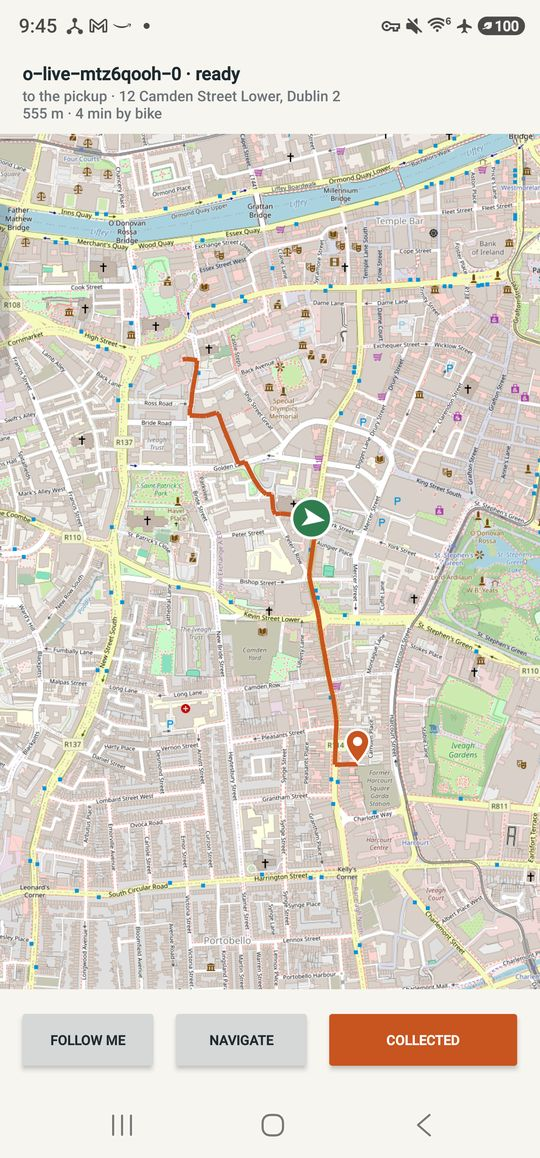
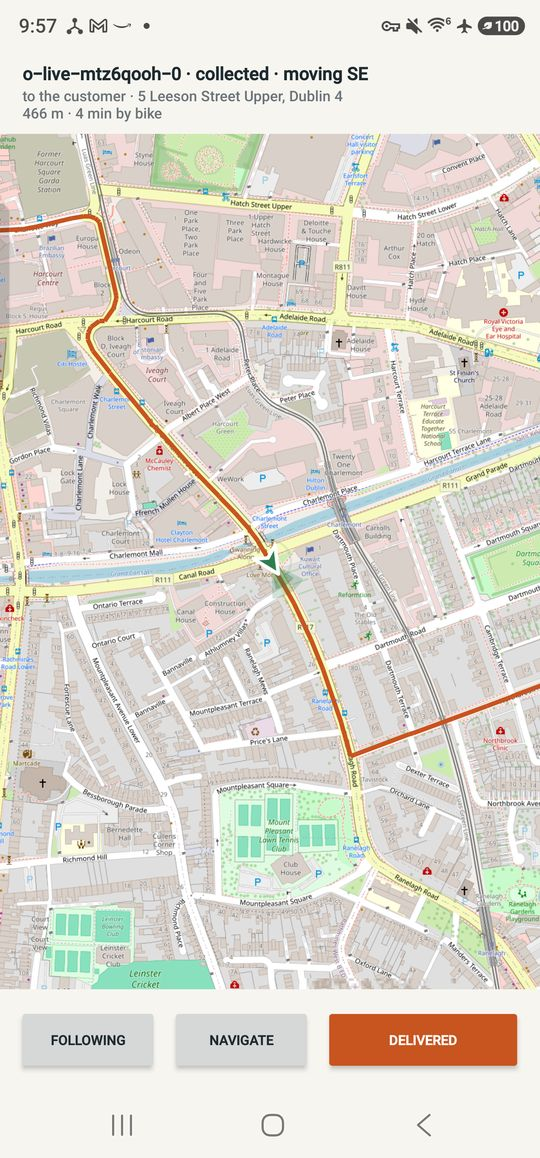
The courier is a chevron with a facing cone, and it pulses while moving
The disc-with-an-arrowhead blurred into the destination teardrop whenever
the courier arrived on top of one. A chevron with the cone of where they are
facing is the shape a person already reads as "me, going that way", and it
stays legible against a teardrop. The anchor sits on the chevron rather than
the image centre, so the cone projects ahead of the courier instead of
dragging the courier forward by half a cone.

A ring expands from under the chevron while the courier is actually moving,
driven by whether the position changed, not by a timer: a courier waiting at
a door or a phone that has gone quiet sits still, and the title says stopped
rather than moving SE. The animation says something true or it does not run.

Claude-Session: https://claude.ai/code/session_01JTEEzAK5s1sBBuDzpcijis

diff --git a/app/src/main/java/ie/unidatum/courier/MapActivity.kt b/app/src/main/java/ie/unidatum/courier/MapActivity.kt
@@ -1,6 +1,8 @@
 package ie.unidatum.courier
 
+import android.graphics.Canvas
 import android.graphics.Color
+import android.graphics.Paint
 import android.os.Bundle
 import android.os.Handler
 import android.os.Looper
@@ -14,6 +16,8 @@ import org.osmdroid.tileprovider.tilesource.TileSourceFactory
 import org.osmdroid.util.BoundingBox
 import org.osmdroid.util.GeoPoint
 import org.osmdroid.views.MapView
+import org.osmdroid.views.Projection
+import org.osmdroid.views.overlay.Overlay
 import org.osmdroid.views.overlay.Marker
 import org.osmdroid.views.overlay.Polyline
 import java.util.concurrent.Executors
@@ -26,6 +30,8 @@ import java.util.concurrent.Executors
  * renderer, not another source of truth. Collect and deliver are here too, so
  * the courier never has to go back to the list.
  */
+private const val PERIOD = 1500L
+
 class MapActivity : AppCompatActivity() {
     private lateinit var map: MapView
     private lateinit var courier: Courier
@@ -52,6 +58,7 @@ class MapActivity : AppCompatActivity() {
         map.setMultiTouchControls(true)
         map.controller.setZoom(15.0)
         map.controller.setCenter(GeoPoint(courier.lat, courier.lon))
+        map.overlays.add(Pulse())   // under the markers: they are added later
         map.setOnTouchListener { _, _ -> follow = false; findViewById<Button>(R.id.recentre).text = "Follow me"; false }
         findViewById<Button>(R.id.recentre).setOnClickListener {
             follow = true; (it as Button).text = "Following"; map.controller.animateTo(GeoPoint(courier.lat, courier.lon))
@@ -68,7 +75,14 @@ class MapActivity : AppCompatActivity() {
         val o = order()
         val here = GeoPoint(courier.lat, courier.lon)
         if (me == null) {
-            me = Marker(map).apply { title = courier.id; setAnchor(Marker.ANCHOR_CENTER, Marker.ANCHOR_CENTER); icon = getDrawable(R.drawable.pin_me) }
+            me = Marker(map).apply {
+                title = courier.id
+                // The chevron, not the image centre, sits on the courier: the cone above it is where they are
+                // looking, and anchoring on the middle of the whole icon would push the courier backwards by
+                // half a cone.
+                setAnchor(0.5f, 0.68f)
+                icon = getDrawable(R.drawable.pin_me)
+            }
             map.overlays.add(me)
         }
         me!!.position = here
@@ -95,7 +109,7 @@ class MapActivity : AppCompatActivity() {
             val status = o.optString("status")
             val d = courier.metresToTarget(o)
             val eta = courier.route?.let { if (it.seconds > 0) " · ${Math.round(it.seconds / 60)} min by bike" else "" } ?: ""
-            findViewById<TextView>(R.id.mapTitle).text = "${o.optString("_id")} · $status"
+            findViewById<TextView>(R.id.mapTitle).text = "${o.optString("_id")} · $status" + (if (courier.moving()) " · moving ${courier.compass()}" else " · stopped")
             findViewById<TextView>(R.id.mapWhere).text =
                 (if (status == "ready") "to the pickup · " + (o.optJSONObject("pickup")?.optString("address") ?: "")
                  else "to the customer · " + (o.optJSONObject("delivery")?.optString("address") ?: "")) +
@@ -145,7 +159,35 @@ class MapActivity : AppCompatActivity() {
         }
     }
 
-    override fun onResume() { super.onResume(); map.onResume() }
-    override fun onPause() { super.onPause(); map.onPause() }
+    /** The rings under the courier while they are actually moving — a signal a person reads without looking, the way
+     *  a blinking cursor says a terminal is alive. Nothing animates when the courier is standing still or their phone
+     *  has gone quiet, so the animation carries information rather than decorating the screen. */
+    private inner class Pulse : Overlay() {
+        private val paint = Paint(Paint.ANTI_ALIAS_FLAG).apply { style = Paint.Style.STROKE }
+        override fun draw(c: Canvas, proj: Projection) {
+            if (!courier.moving()) return
+            val p = proj.toPixels(GeoPoint(courier.lat, courier.lon), null)
+            val t = (System.currentTimeMillis() % PERIOD).toFloat() / PERIOD
+            for (k in 0..1) {
+                val phase = (t + k * 0.5f) % 1f
+                paint.color = Color.parseColor("#2F7D4F")
+                paint.alpha = ((1f - phase) * (1f - phase) * 130).toInt()
+                paint.strokeWidth = 2f + 7f * (1f - phase)
+                c.drawCircle(p.x.toFloat(), p.y.toFloat(), 22f + phase * 68f, paint)
+            }
+        }
+    }
+
+    private val beat = object : Runnable {
+        override fun run() {
+            if (!alive || !resumed) return
+            if (courier.moving()) map.invalidate()
+            ui.postDelayed(this, 40)
+        }
+    }
+
+    @Volatile private var resumed = false
+    override fun onResume() { super.onResume(); map.onResume(); resumed = true; ui.post(beat) }
+    override fun onPause() { super.onPause(); map.onPause(); resumed = false }
     override fun onDestroy() { alive = false; work.shutdownNow(); super.onDestroy() }
 }

diff --git a/app/src/main/java/ie/unidatum/courier/Courier.kt b/app/src/main/java/ie/unidatum/courier/Courier.kt
@@ -62,9 +62,16 @@ class Courier private constructor(ctx: Context) {
     private fun face(fromLon: Double, fromLat: Double) {
         val mPerDegLat = 111_320.0; val mPerDegLon = mPerDegLat * Math.cos(Math.toRadians(lat))
         val dx = (lon - fromLon) * mPerDegLon; val dy = (lat - fromLat) * mPerDegLat
-        if (Math.hypot(dx, dy) < 1.0) return
+        val d = Math.hypot(dx, dy)
+        if (d > 0.4) lastMoveAt = System.currentTimeMillis()
+        if (d < 1.0) return
         heading = (Math.toDegrees(Math.atan2(dx, dy)) + 360.0) % 360.0
     }
+
+    /** When the courier last actually moved, and whether that was recent enough to call them under way. A courier
+     *  waiting at a door, or one whose phone has stopped reporting, is not moving and should not look like it. */
+    @Volatile var lastMoveAt = 0L
+    fun moving(): Boolean = System.currentTimeMillis() - lastMoveAt < 8000
 
     /** The heading as a compass point, for a person to read. */
     fun compass(): String = listOf("N", "NE", "E", "SE", "S", "SW", "W", "NW")[(((heading + 22.5) % 360) / 45).toInt()]

diff --git a/README.md b/README.md
@@ -135,7 +135,7 @@ computed from the same position.
 
 ### The map
 
-<img src="docs/screenshots/7-map.jpg" width="360" alt="The in-app map: OpenStreetMap tiles of Dublin, the courier's arrow pointing east on Golden Lane, a cycling route to the pickup pin at Camden Street, 555 m and 4 minutes">
+<img src="docs/screenshots/7-map.jpg" width="360" alt="The in-app map: OpenStreetMap tiles of Dublin, the courier's chevron with its facing cone on Charlemont Street, a cycling route to the customer in Leeson Street Upper, 466 m and 4 minutes, the title reading collected and moving SE">
 
 Everything on this screen comes from two documents the phone already holds:
 the order, from its own node, and the position it writes itself. The map is
@@ -153,12 +153,22 @@ too, so nobody has to go back to the list mid-ride.
 The simulated ride follows the same polyline, which is why the track on the
 map runs along streets rather than through buildings.
 
-The courier is an arrow, not a dot, because the position carries a heading:
-the phone's own bearing in GPS mode, and the direction of travel otherwise.
-In the shot above the arrow points east along Golden Lane, and the document
-behind it read 100.1°. A customer app can point its courier icon the same
-way, and know the direction came from the courier rather than from whoever
-last wrote the row — the heading is inside the signed claim.
+The courier is a chevron with a cone, not a dot, because the position carries
+a heading: the phone's own bearing in GPS mode, and the direction of travel
+otherwise. The shape is deliberately not a teardrop — the pickup and the
+customer are teardrops, and a courier standing at a door has to still read as
+two things and not one blob. A customer app can point its courier icon the
+same way, and know the direction came from the courier rather than from
+whoever last wrote the row, because the heading is inside the signed claim.
+
+<img src="docs/screenshots/8-pulse.jpg" width="700" alt="Four consecutive frames of the courier riding: a green ring expands and fades from under the chevron">
+
+Four consecutive frames while the courier rides down Harcourt Road. The ring
+expands from under the chevron and fades, and it runs only while the courier
+is actually moving — not on a timer. A courier waiting at a door, or one
+whose phone has gone quiet, sits still and the title says `stopped` instead
+of `moving SE`. The animation carries information rather than decorating the
+screen.
 
 ### Positions the hub can trust
 
